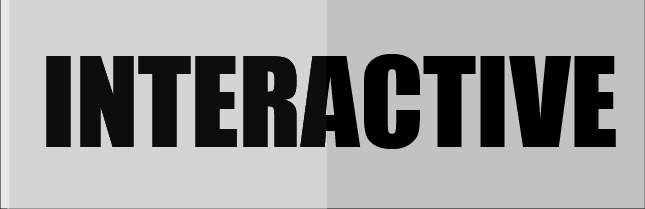
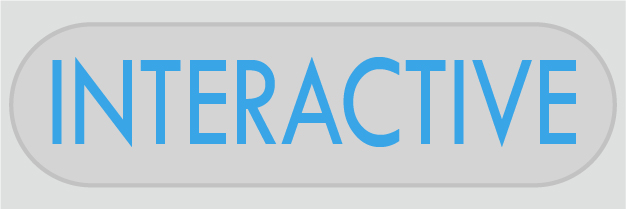
GUI Updated

diff --git a/Restaurant/CMUgraphicsLib/colors.h b/Restaurant/CMUgraphicsLib/colors.h
@@ -185,8 +185,8 @@ const color LIGHTGREEN = color(144, 238, 144);
 /////////////////////////////////////////////
 // Custom Colors
 ////////////////////////////////////////////
-const color NRED = color(214,9,9);
-const color NDARKBLUE = color(11,144,211);
+const color NRED = color(255,9,0);
+const color NDARKBLUE = color(0,85,255);
 const color NVIOLET = color(255,146,232);
 ///// Dark GUI /////////////////////////////
 const color DARKGUID = color(22,22,22);
@@ -196,6 +196,6 @@ const color LIGHTGUID = color(222,224,223);
 const color LIGHTGUIL = color(233,233,233);
 ///// Font ////////////////////////////////
 const color REDR = color(157,0,42);
-const color BLUER = color(21,150,230);
+const color BLUER = color(21,150,220);
 
 #endif //COLOR_H
